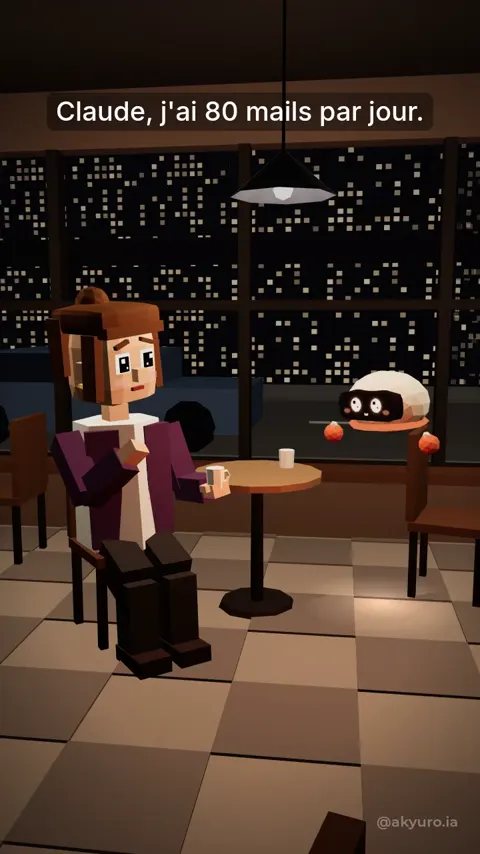
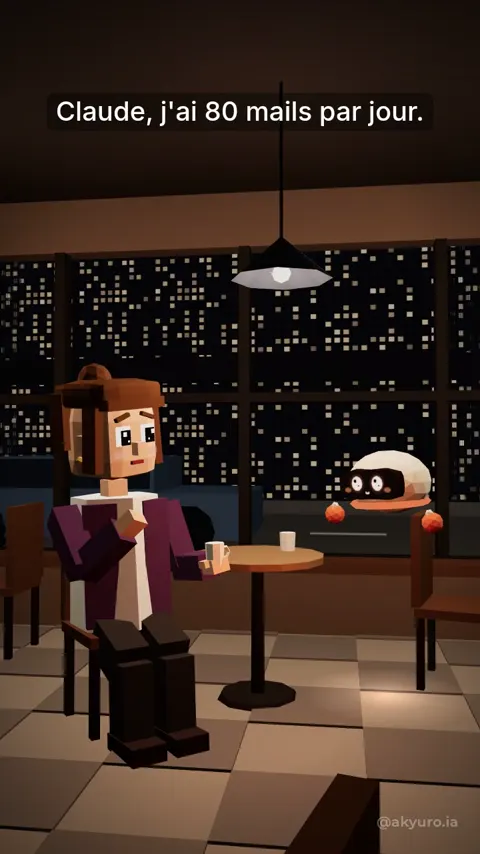
Site des guides : 8 guide(s), 5 fichier(s) modifié(s) (24/11 10:41)

diff --git a/index.html b/index.html
@@ -15,7 +15,7 @@ s'appuie sur la documentation officielle, citée en bas de page.</p>
 <div class="galet"><img src="img/galet.webp" alt="Le Galet, le personnage des vidéos" width="720" height="720"></div></div></section>
 <section class="bloc" id="guides"><div><h2 class="reveal">Les derniers <span class="o">guides</span></h2>
 <p class="intro reveal">Un guide par vidéo : les étapes exactes, les noms des menus, et rien d'inventé.</p>
-<div class="cartes"><a class="carte reveal" href="nuage/index.html"><span class="vignette"><img src="img/guides/nuage.webp" alt="" loading="lazy" width="480" height="853"></span><span class="texte"><strong>Ordi fermé, code réparé : lancer Claude Code dans le cloud</strong><span class="mot">NUAGE</span></span></a><a class="carte reveal" href="recrute/index.html"><span class="vignette"><img src="img/guides/recrute.webp" alt="" loading="lazy" width="480" height="853"></span><span class="texte"><strong>Trier tes candidatures avec le plugin Small Business de Claude</strong><span class="mot">RECRUTE</span></span></a><a class="carte reveal" href="factures/index.html"><span class="vignette"><img src="img/guides/factures.webp" alt="" loading="lazy" width="480" height="853"></span><span class="texte"><strong>Tes factures deviennent un tableau Excel</strong><span class="mot">FACTURES</span></span></a><a class="carte reveal" href="recap/index.html"><span class="vignette"><img src="img/guides/recap.webp" alt="" loading="lazy" width="480" height="853"></span><span class="texte"><strong>Le compte rendu en parlant</strong><span class="mot">RECAP</span></span></a><a class="carte reveal" href="candidature/index.html"><span class="vignette"><img src="img/guides/candidature.webp" alt="" loading="lazy" width="480" height="853"></span><span class="texte"><strong>Un projet Claude pour tes candidatures</strong><span class="mot">CANDIDATURE</span></span></a><a class="carte reveal" href="boutique-2/index.html"><span class="vignette"><img src="img/guides/boutique-2.webp" alt="" loading="lazy" width="480" height="853"></span><span class="texte"><strong>Trois agents pour tes mails clients</strong><span class="mot">BOUTIQUE</span></span></a><a class="carte reveal" href="boutique/index.html"><span class="vignette"><img src="img/guides/boutique.webp" alt="" loading="lazy" width="480" height="853"></span><span class="texte"><strong>Trois aides pour tes mails clients</strong><span class="mot">BOUTIQUE</span></span></a></div></div></section>
+<div class="cartes"><a class="carte reveal" href="creneau/index.html"><span class="vignette"><img src="img/guides/creneau.webp" alt="" loading="lazy" width="480" height="853"></span><span class="texte"><strong>Trouver un créneau commun sans ping-pong de mails</strong><span class="mot">CRENEAU</span></span></a><a class="carte reveal" href="nuage/index.html"><span class="vignette"><img src="img/guides/nuage.webp" alt="" loading="lazy" width="480" height="853"></span><span class="texte"><strong>Ordi fermé, code réparé : lancer Claude Code dans le cloud</strong><span class="mot">NUAGE</span></span></a><a class="carte reveal" href="recrute/index.html"><span class="vignette"><img src="img/guides/recrute.webp" alt="" loading="lazy" width="480" height="853"></span><span class="texte"><strong>Trier tes candidatures avec le plugin Small Business de Claude</strong><span class="mot">RECRUTE</span></span></a><a class="carte reveal" href="factures/index.html"><span class="vignette"><img src="img/guides/factures.webp" alt="" loading="lazy" width="480" height="853"></span><span class="texte"><strong>Tes factures deviennent un tableau Excel</strong><span class="mot">FACTURES</span></span></a><a class="carte reveal" href="recap/index.html"><span class="vignette"><img src="img/guides/recap.webp" alt="" loading="lazy" width="480" height="853"></span><span class="texte"><strong>Le compte rendu en parlant</strong><span class="mot">RECAP</span></span></a><a class="carte reveal" href="candidature/index.html"><span class="vignette"><img src="img/guides/candidature.webp" alt="" loading="lazy" width="480" height="853"></span><span class="texte"><strong>Un projet Claude pour tes candidatures</strong><span class="mot">CANDIDATURE</span></span></a><a class="carte reveal" href="boutique-2/index.html"><span class="vignette"><img src="img/guides/boutique-2.webp" alt="" loading="lazy" width="480" height="853"></span><span class="texte"><strong>Trois agents pour tes mails clients</strong><span class="mot">BOUTIQUE</span></span></a><a class="carte reveal" href="boutique/index.html"><span class="vignette"><img src="img/guides/boutique.webp" alt="" loading="lazy" width="480" height="853"></span><span class="texte"><strong>Trois aides pour tes mails clients</strong><span class="mot">BOUTIQUE</span></span></a></div></div></section>
 <section class="bloc"><div><h2 class="reveal">Comment <span class="o">ça marche</span></h2>
 <div class="etapes3"><div class="etape reveal"><strong>Regarde la vidéo</strong><span>Sur Instagram, @akyuro.ia montre un cas concret en moins d'une minute.</span></div>
 <div class="etape reveal"><strong>Commente le mot-clé</strong><span>Il est dit à la fin de la vidéo, par exemple « BOUTIQUE ».</span></div>

diff --git a/creneau/index.html b/creneau/index.html
@@ -1,0 +1,44 @@
+<!doctype html>
+<html lang="fr"><head><meta charset="utf-8"><meta name="viewport" content="width=device-width,initial-scale=1">
+<title>Trouver un créneau commun sans ping-pong de mails · aKyuro · Astuces Claude &amp; IA</title><meta name="description" content="Quatre agendas, un seul créneau, zéro mail."><meta name="robots" content="index,follow">
+<meta name="theme-color" content="#0b0909"><link rel="icon" href="../icone.svg" type="image/svg+xml"><link rel="stylesheet" href="../style.css"><script>document.documentElement.classList.add('js');addEventListener('DOMContentLoaded',()=>{const r=matchMedia('(prefers-reduced-motion: reduce)').matches;const e=document.querySelectorAll('.reveal');if(r||!('IntersectionObserver' in window)){e.forEach(x=>x.classList.add('vu'));return}const o=new IntersectionObserver(l=>l.forEach(x=>{if(x.isIntersecting){x.target.classList.add('vu');o.unobserve(x.target)}}),{threshold:.12});e.forEach(x=>o.observe(x))});</script></head>
+<body><a class="saut" href="#contenu">Aller au contenu</a>
+
+<header class="barre"><a class="marque" href="../index.html"><i></i>aKyuro</a>
+<nav><a href="../index.html#guides">Guides</a><a href="../a-propos/index.html">À propos</a></nav></header>
+<main id="contenu"><div class="page"><a class="retour" href="../index.html#guides">← Tous les guides</a><span class="surtitre">Mot-clé : CRENEAU</span><h1>Trouver un créneau commun sans ping-pong de mails</h1><p class="doux">Guide du reel « Un créneau à quatre, zéro mail » · mis à jour le 24/11/2026</p>
+<p>Maintenant, Claude peut chercher les disponibilités communes de tes participants dans Google Agenda puis créer l&#x27;événement pour toi. Voici comment faire, pas à pas.</p>
+<h2>Ce qu&#x27;il te faut</h2>
+<ul>
+<li>Un compte Claude, sur Claude ou Claude Desktop.</li>
+<li>Un compte Google avec ton Google Agenda.</li>
+<li>La liste des personnes à réunir.</li>
+<li>Si tu es sur une offre Team ou Enterprise : le connecteur doit d&#x27;abord être activé par un propriétaire de l&#x27;espace.</li>
+</ul>
+<h2>Étapes</h2>
+<ol>
+<li><strong>Ouvre les connecteurs.</strong> Dans Claude, va dans « Customize &gt; Connectors ». C&#x27;est là que tu relies tes applis à Claude.</li>
+<li><strong>Connecte Google Agenda.</strong> Choisis Google Agenda (Google Calendar) dans la liste et suis les étapes de connexion à ton compte Google. Si l&#x27;option n&#x27;apparaît pas et que tu es sur Team ou Enterprise, demande à un propriétaire de l&#x27;activer.</li>
+<li><strong>Demande un créneau commun.</strong> Écris simplement ce dont tu as besoin, par exemple : « Trouve un créneau d&#x27;une heure la semaine prochaine où ces quatre personnes sont disponibles », en indiquant qui doit participer. Claude cherche les disponibilités communes des participants.</li>
+<li><strong>Vérifie le créneau proposé et valide.</strong> Relis la proposition de Claude : jour, heure, durée, liste des participants. Si ça ne te va pas, demande une autre option. Quand c&#x27;est bon, dis-lui clairement que tu valides.</li>
+<li><strong>Laisse Claude créer l&#x27;événement.</strong> Une fois ton accord donné, demande à Claude de créer l&#x27;événement dans Google Agenda avec les participants concernés. Ouvre ensuite ton agenda pour vérifier que tout est en place.</li>
+</ol>
+<h2>Bon à savoir</h2>
+<ul>
+<li>Claude ne se limite pas à la création : avec Google Agenda, il peut aussi modifier et supprimer des événements.</li>
+<li>Il gère les listes d&#x27;invités et peut répondre aux invitations : accepter, refuser ou répondre « peut-être ».</li>
+<li>Les connecteurs Gmail, Google Agenda et Google Drive sont disponibles pour tous les utilisateurs, sur Claude et Claude Desktop.</li>
+<li>Garde toujours la main : relis le créneau avant de valider, surtout quand plusieurs clients sont invités.</li>
+</ul>
+<div class="sources"><h2>Sources</h2>
+<ul>
+<li><a href="https://support.claude.com/en/articles/10166901-use-google-workspace-connectors" rel="noopener noreferrer">https://support.claude.com/en/articles/10166901-use-google-workspace-connectors</a></li>
+<li><a href="https://support.claude.com/en/articles/11176164-use-connectors-to-extend-claude-s-capabilities" rel="noopener noreferrer">https://support.claude.com/en/articles/11176164-use-connectors-to-extend-claude-s-capabilities</a></li>
+</ul></div>
+<p class="doux">Une question ? Écris-nous en message privé sur Instagram.</p></div></main>
+<footer><div class="liens"><a href="../index.html#guides">Guides</a><a href="../a-propos/index.html">À propos</a>
+<a href="../confidentialite/index.html">Confidentialité</a><a href="../suppression-des-donnees/index.html">Suppression des données</a>
+<a href="https://www.instagram.com/akyuro.ia/" rel="noopener noreferrer">@akyuro.ia</a></div>
+<p><strong>Compte non officiel, non affilié à Anthropic.</strong> Claude est une marque d'Anthropic.</p>
+<p>Les guides s'appuient uniquement sur la documentation officielle, citée en bas de chaque page.</p></footer>
+</body></html>

diff --git a/confidentialite/index.html b/confidentialite/index.html
@@ -7,7 +7,7 @@
 <header class="barre"><a class="marque" href="../index.html"><i></i>aKyuro</a>
 <nav><a href="../index.html#guides">Guides</a><a href="../a-propos/index.html">À propos</a></nav></header>
 <main id="contenu"><div class="page"><h1>Politique de confidentialité</h1>
-<p class="doux">Dernière mise à jour : 23/11/2026.</p>
+<p class="doux">Dernière mise à jour : 24/11/2026.</p>
 <p>Cette page explique quelles données le compte Instagram @akyuro.ia et ce site traitent, pourquoi, combien de temps, et comment
 exercer vos droits (règlement européen sur la protection des données, RGPD).</p>
 <h2>Ce site</h2>
